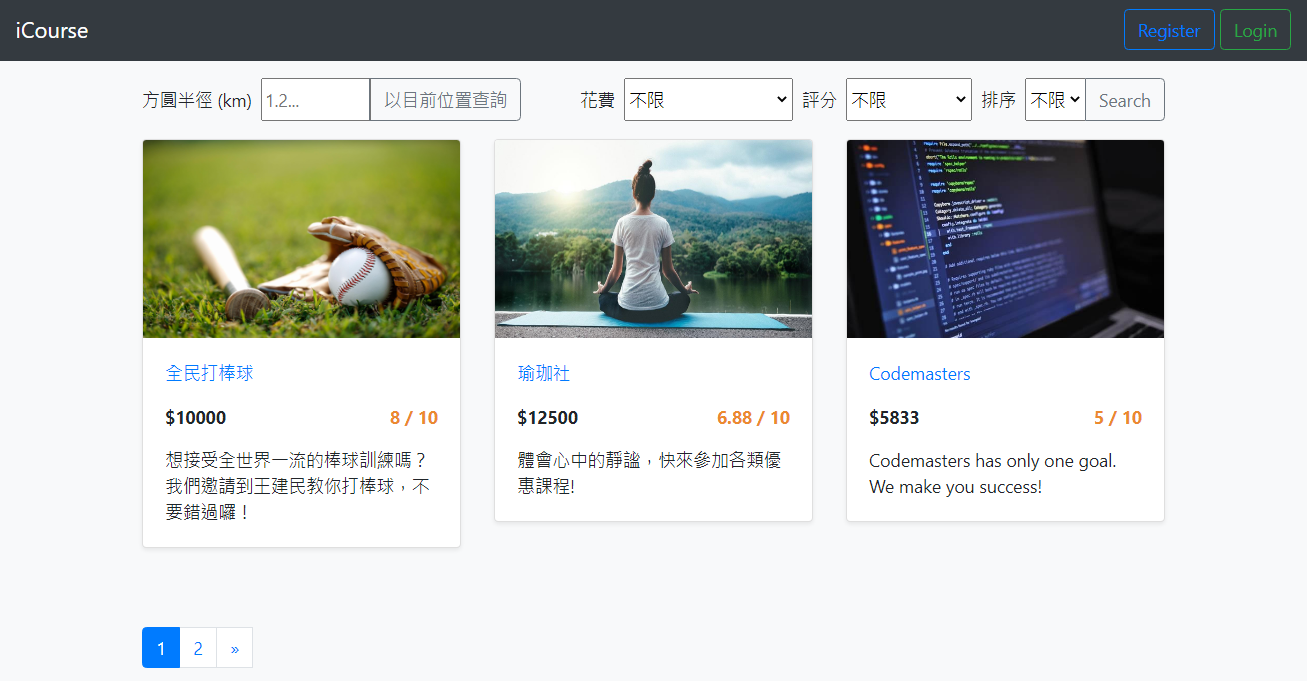
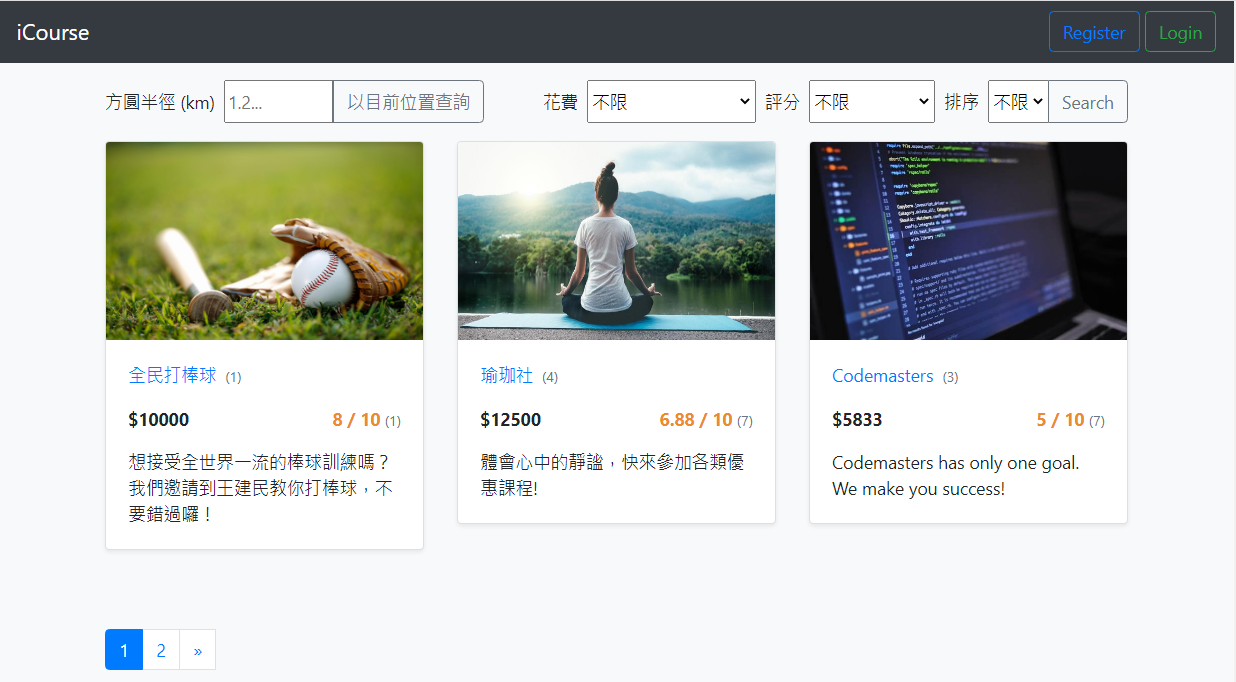
modify README.md

diff --git a/README.md b/README.md
@@ -10,9 +10,11 @@ Users/Publishers can
 
 - browse and filter all groups by settings or geometry location
 - browse and filter all courses of a group by settings
+- see group's count of courses and reviews
 - follow groups to receive new course notification
 - see other peoples' following groups
 - manage their profile
+- reset password when forgot it
 
 Publishers can
 
